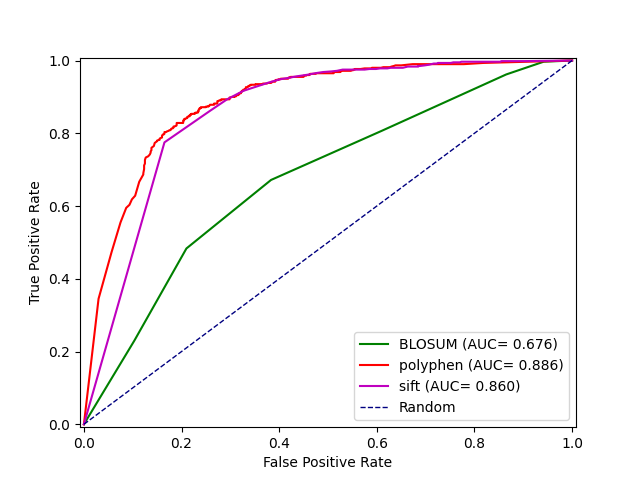
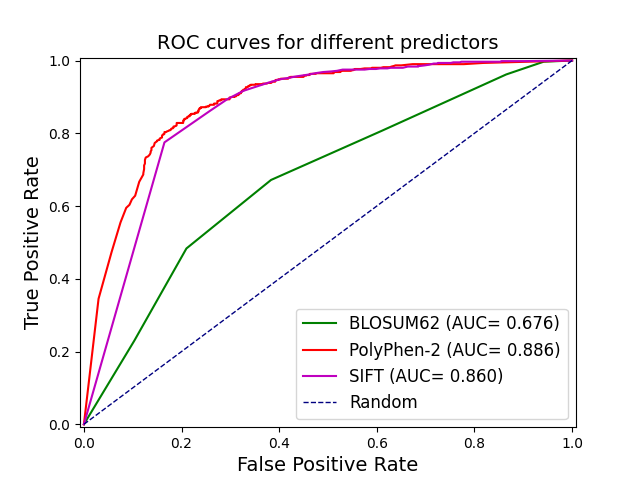
Made the plots nicer

diff --git a/scripts/skeleton_script_create_roc_plot.py b/scripts/skeleton_script_create_roc_plot.py
@@ -56,7 +56,6 @@ def parse_predictor(filename):
         :param filename: a str with the predictor input file
         :return: a dict with HGVS IDs (keys), and the corresponding predictor scores (values)
     """
-
     global type_predictor
     if 'sift' in filename:
         type_predictor = 'sift'
@@ -294,9 +293,12 @@ def roc_plot(tpr, fpr, coordinator_score, out_filepath, color = False):
     # Draw ROC plot and write it to a file
     lw = 1
     figure, axes = matplotlib.pyplot.subplots(1, 1)
-
+    # matplotlib.pyplot.get_cmap('coolwarm').reversed()
     if color:
-        lc = colorline(fpr, tpr, coordinator_score, axes=axes)
+        if type_predictor != 'polyphen':
+            lc = colorline(fpr, tpr, coordinator_score, cmap=matplotlib.pyplot.get_cmap('coolwarm').reversed(), axes=axes)
+        else:
+            lc = colorline(fpr, tpr, coordinator_score, axes=axes)
         color_bar = figure.colorbar(lc)
         colorbar_legend = type_predictor + ' score'
         color_bar.ax.set_ylabel(colorbar_legend)
@@ -306,9 +308,14 @@ def roc_plot(tpr, fpr, coordinator_score, out_filepath, color = False):
     axes.plot((0, 1), (0, 1), '--', color='navy', lw=lw, linestyle='--', label='Random')
     axes.set_xlim([-0.008, 1.008])
     axes.set_ylim([-0.008, 1.008])
-    axes.set_xlabel('False Positive Rate')
-    axes.set_ylabel('True Positive Rate')
-    axes.set_title('AUC = %.3f' % auc)
+    axes.set_xlabel('False Positive Rate', fontsize=14)
+    axes.set_ylabel('True Positive Rate', fontsize=14)
+    if type_predictor == 'polyphen':
+        axes.set_title('ROC curve for PolyPhen-2 (AUC = %.3f)' % auc, fontsize=14)
+    if type_predictor == 'sift':
+        axes.set_title('ROC curve for SIFT (AUC = %.3f)' % auc, fontsize=14)
+    if type_predictor == 'BLOSUM':
+        axes.set_title('ROC curve for BLOSUM62 (AUC = %.3f)' % auc, fontsize=14)
     matplotlib.pyplot.savefig(out_filepath)
 
 def roc_plot_together(list_tpr, list_fpr, labels, out_filepath):
@@ -332,9 +339,10 @@ def roc_plot_together(list_tpr, list_fpr, labels, out_filepath):
     axes.plot((0, 1), (0, 1), '--', color='navy', lw=lw, linestyle='--', label='Random')
     axes.set_xlim([-0.008, 1.008])
     axes.set_ylim([-0.008, 1.008])
-    axes.legend()
-    axes.set_xlabel('False Positive Rate')
-    axes.set_ylabel('True Positive Rate')
+    axes.legend(fontsize=12)
+    axes.set_title('ROC curves for different predictors', fontsize=14)
+    axes.set_xlabel('False Positive Rate', fontsize=14)
+    axes.set_ylabel('True Positive Rate', fontsize=14)
     matplotlib.pyplot.savefig(out_filepath)
 
 def colorline(x, y, z=None, axes=None, cmap=matplotlib.pyplot.get_cmap('coolwarm'), linewidth=3, alpha=1.0, **kwargs):
@@ -410,6 +418,7 @@ def main():
         # Calculate ROC coordinates
         tpr, fpr, coordinate_score = calculate_coordinates(predictor_results, benchmark_results, out_filepath)
         # Draw and save the ROC plot
+
         roc_plot(tpr, fpr, coordinate_score, out_filepath, color)
 
     elif len(predictor_path) != 3:
@@ -427,7 +436,13 @@ def main():
             predictor_results = parse_predictor(predictor)
             benchmark_results = parse_benchmark(benchmark_path)
             # Append predictor type to the label list
-            labels.append(type_predictor)
+            if type_predictor == 'polyphen':
+                labels.append('PolyPhen-2')
+            elif type_predictor == 'sift':
+                labels.append('SIFT')
+            elif type_predictor == 'BLOSUM':
+                labels.append('BLOSUM62')
+
             # Calculate ROC coordinates
             tpr, fpr, coordinate_score = calculate_coordinates(predictor_results, benchmark_results, None)
             # Append coordinates to lists
